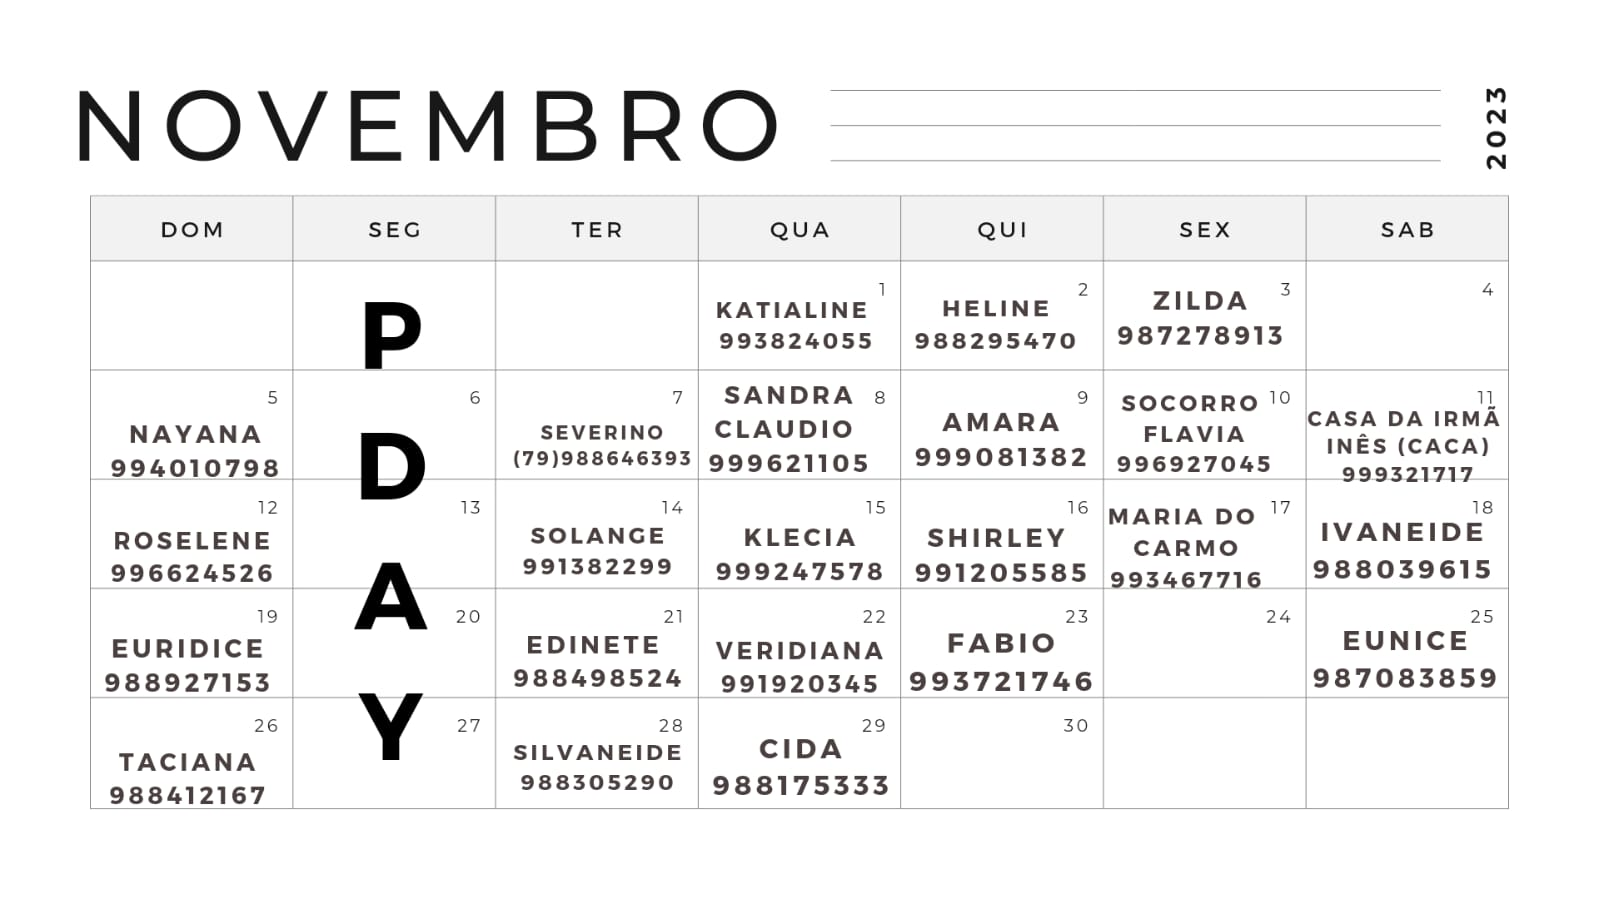
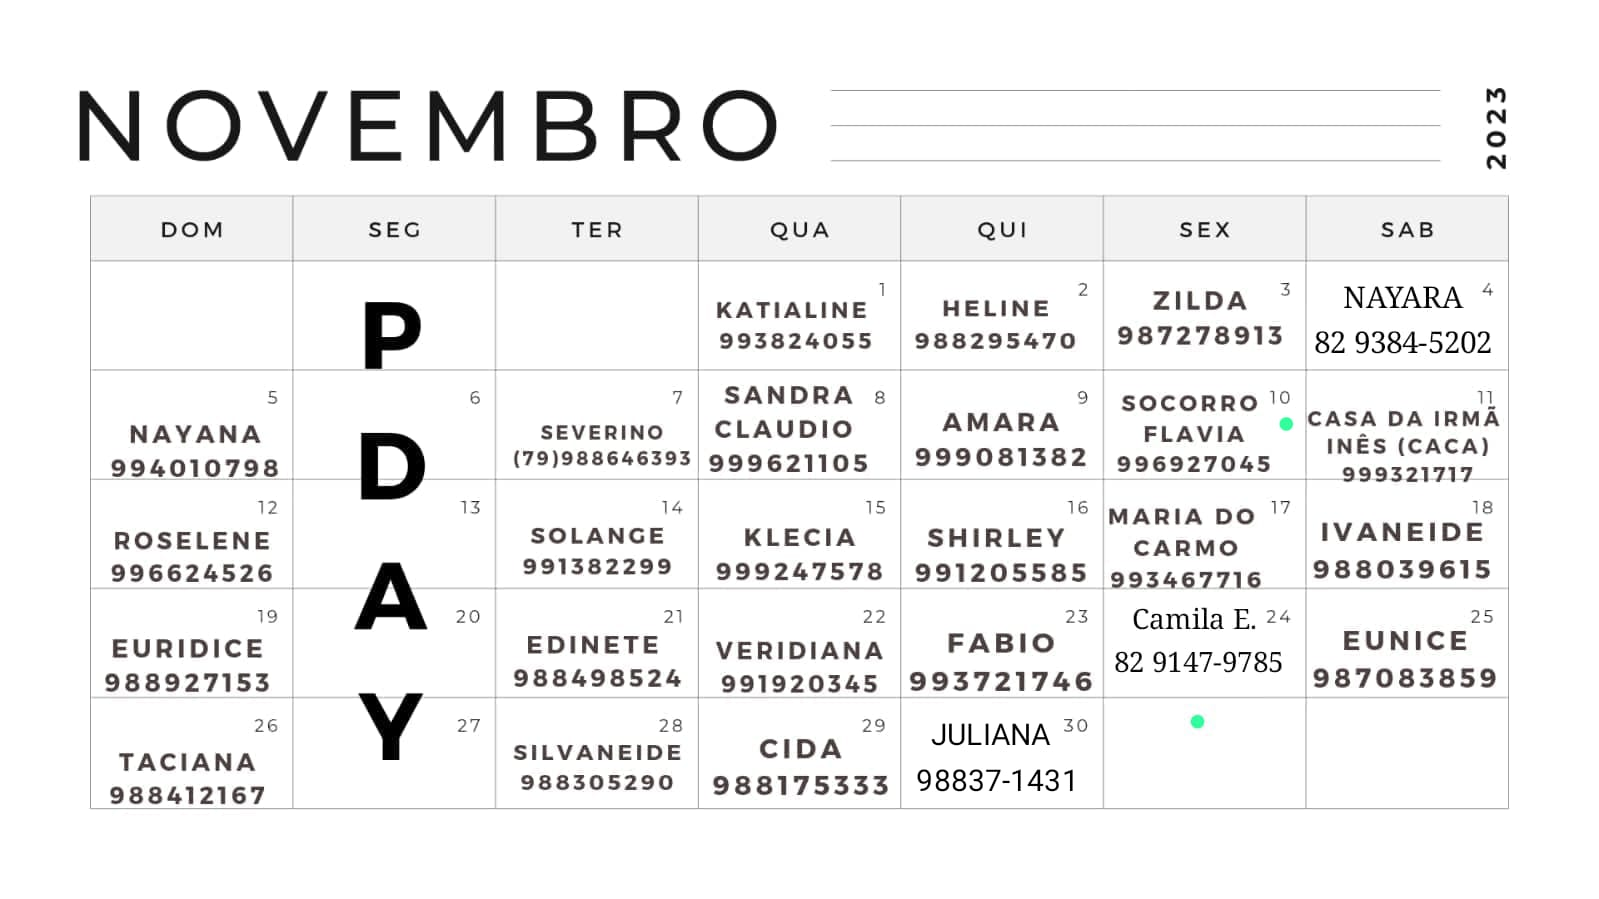
chore(lunches): uptade list and archive

diff --git a/src/components/Lunches.jsx b/src/components/Lunches.jsx
@@ -31,7 +31,7 @@ export function Lunches() {
         { id: 23, date: '26 nov — domingo', name: 'Taciana', contact: '82 988412167' },
         { id: 24, date: '28 nov — terça-feira', name: 'Silvaneide', contact: '82 988305290' },
         { id: 25, date: '29 nov — quarta-feira', name: 'Cida', contact: '82 988175333' },
-        { id: 26, date: '30 nov — quinta-feira', name: '', contact: '' },
+        { id: 26, date: '30 nov — quinta-feira', name: 'Juliana', contact: '82 988271431' },
     ];
 
     return (
